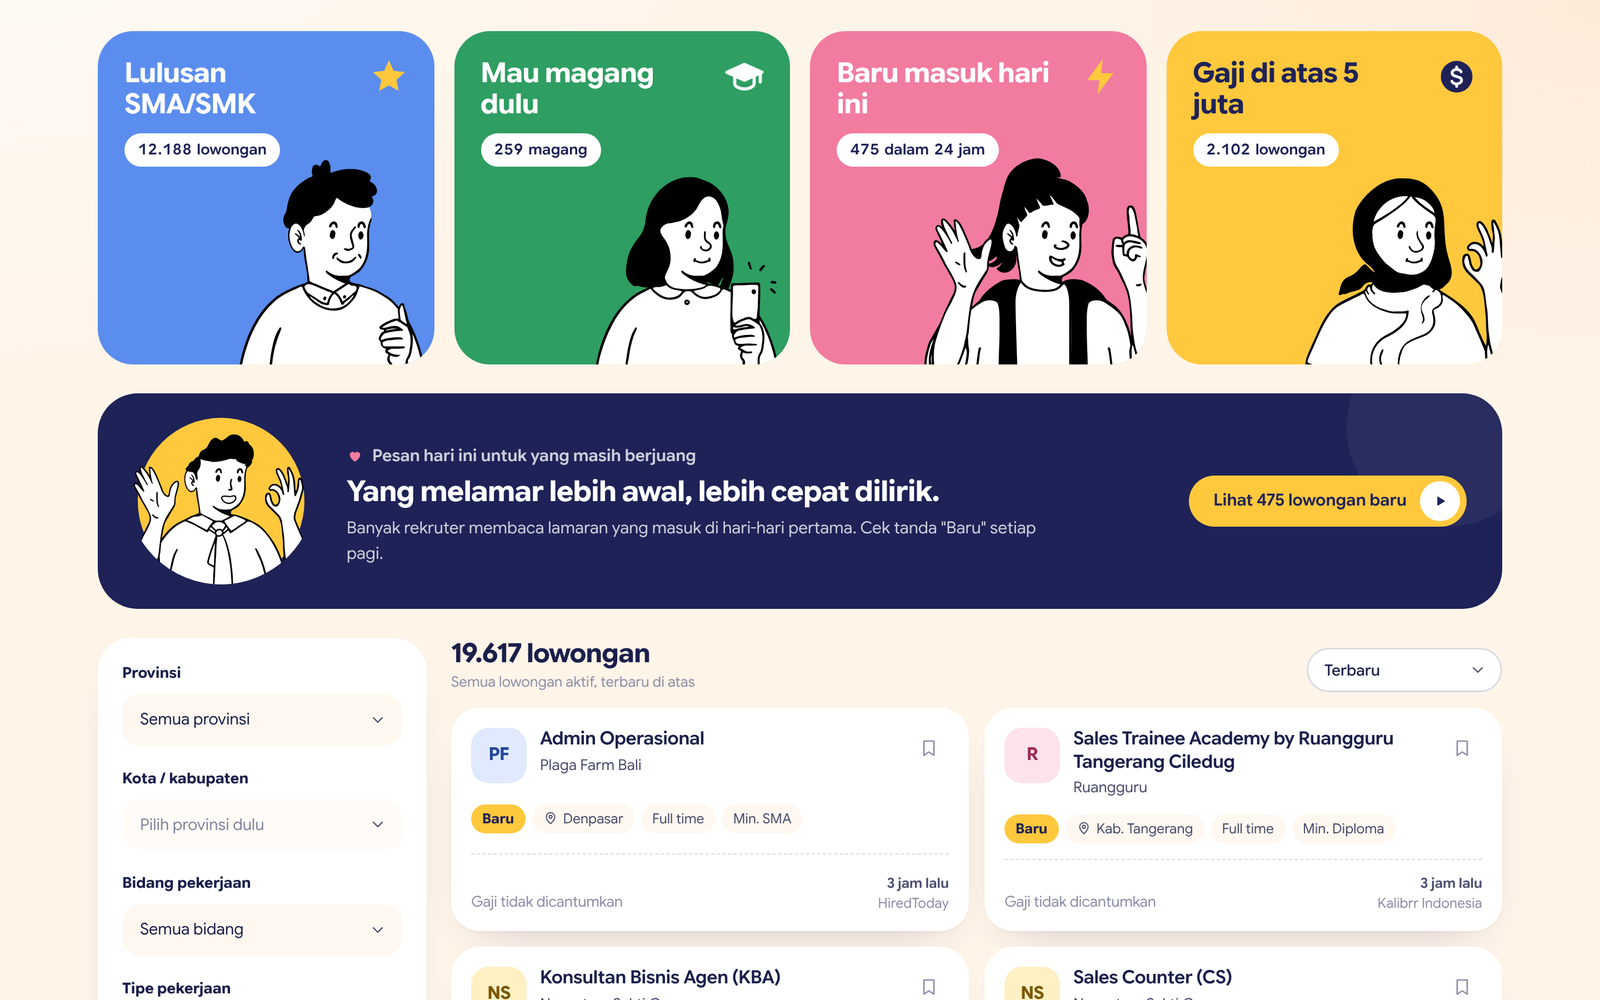
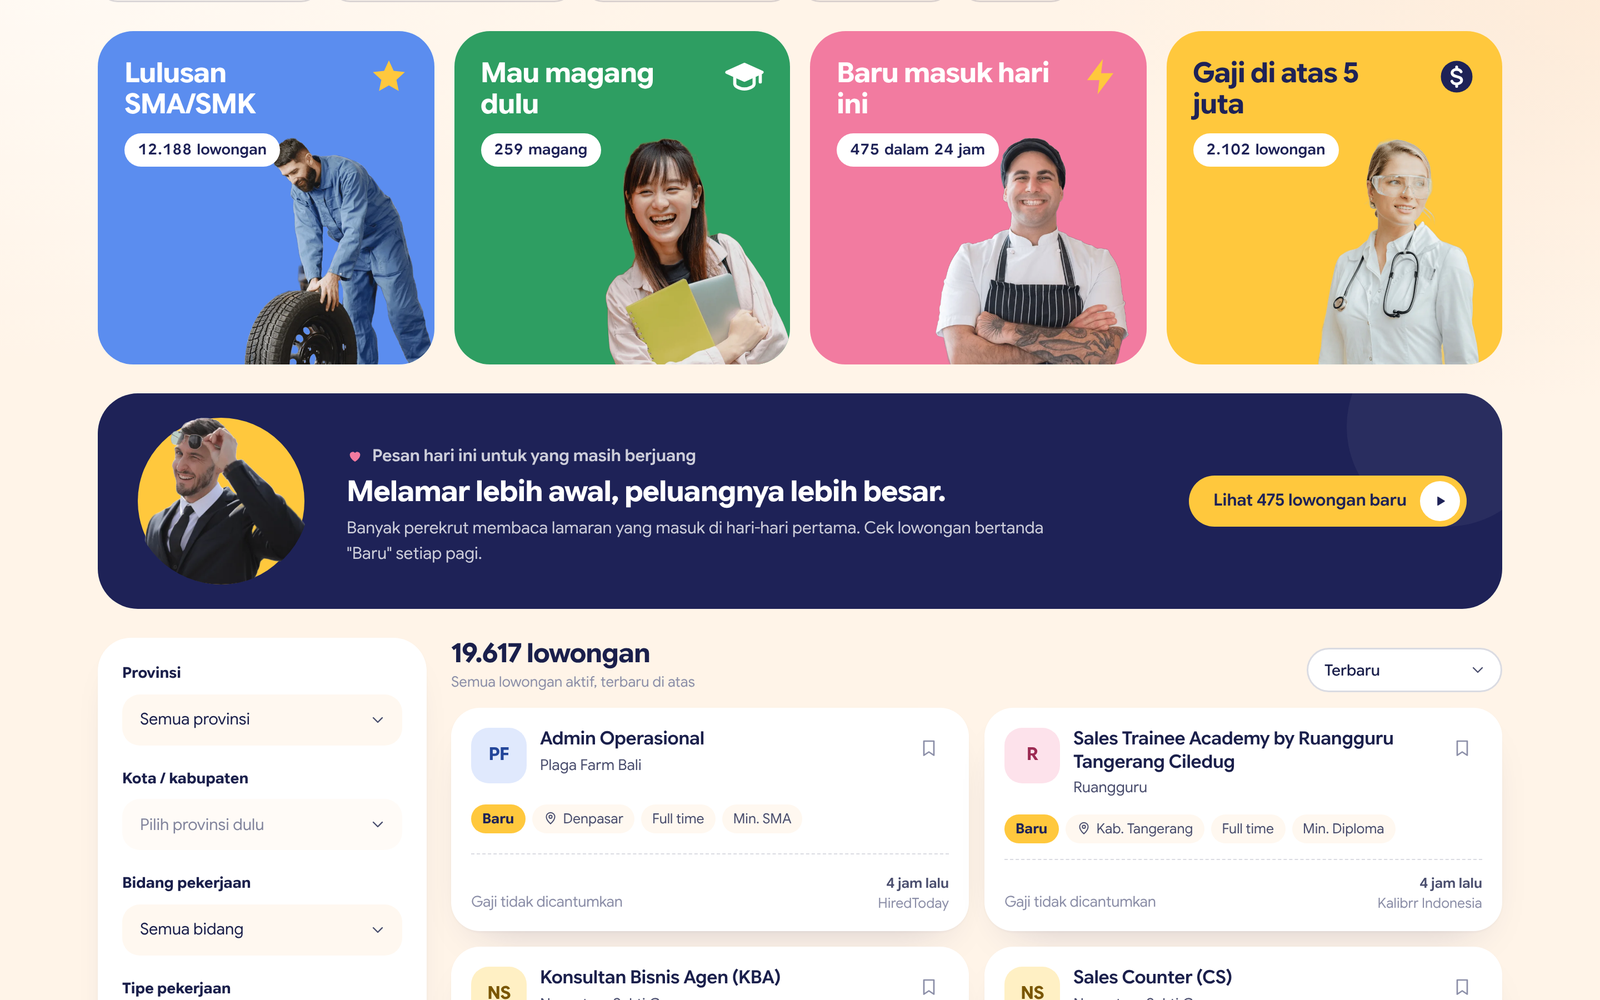
Add files via upload

diff --git a/app.js b/app.js
@@ -23,10 +23,10 @@ const POPULAR_MAJORS = ['Akuntansi', 'Manajemen', 'Teknik Informatika', 'Adminis
   'Teknik Mesin', 'Teknik Sipil & Arsitektur', 'Keperawatan & Kebidanan', 'Tata Boga & Kuliner', 'Pendidikan', 'Hukum'];
 
 const MOODS = [
-  { tone: 'blue', title: 'Lulusan SMA/SMK', unit: 'lowongan', icon: 'star', img: 'orang-raka.svg', patch: { edu: 'sma' } },
-  { tone: 'green', title: 'Mau magang dulu', unit: 'magang', icon: 'cap', img: 'orang-nadia.svg', patch: { types: ['Magang'] } },
-  { tone: 'pink', title: 'Baru masuk hari ini', unit: 'dalam 24 jam', icon: 'bolt', img: 'orang-ayu.svg', patch: { waktu: '1' } },
-  { tone: 'yellow', title: 'Gaji di atas 5 juta', unit: 'lowongan', icon: 'coin', img: 'orang-laila.svg', patch: { gaji: '5' } }
+  { tone: 'blue', title: 'Lulusan SMA/SMK', unit: 'lowongan', icon: 'star', img: 'foto-mekanik.webp', fit: 'right:0', patch: { edu: 'sma' } },
+  { tone: 'green', title: 'Mau magang dulu', unit: 'magang', icon: 'cap', img: 'foto-magang.webp', fit: 'right:0', patch: { types: ['Magang'] } },
+  { tone: 'pink', title: 'Baru masuk hari ini', unit: 'dalam 24 jam', icon: 'bolt', img: 'foto-chef.webp', fit: 'right:5%', patch: { waktu: '1' } },
+  { tone: 'yellow', title: 'Gaji di atas 5 juta', unit: 'lowongan', icon: 'coin', img: 'foto-perawat.webp', fit: 'right:7%', patch: { gaji: '5' } }
 ];
 
 function todayMessage() {
@@ -248,7 +248,7 @@ function renderMoods() {
       <span class="mood-title">${m.title}</span>
       <span class="mood-chip">${ribu(n)} ${m.unit}</span>
       <svg class="mood-icon"><use href="#i-${m.icon}"/></svg>
-      <img src="${m.img}" alt="" loading="lazy">
+      <img src="${m.img}" alt="" loading="lazy" style="${m.fit}">
     </button>`;
   }).join('');
 }
@@ -262,7 +262,7 @@ function renderCheer() {
   }
   const fresh = summarize(state.all, state.ref).fresh;
   $('#cheer').innerHTML = `
-    <div class="cheer-art"><img src="orang-bima.svg" alt=""></div>
+    <div class="cheer-art"><img src="foto-eksekutif.webp" alt=""></div>
     <div>
       <p class="cheer-eyebrow"><svg><use href="#i-heart"/></svg>Pesan hari ini untuk yang masih berjuang</p>
       <h2>${esc(m.title)}</h2>
@@ -321,12 +321,12 @@ function renderResults() {
     ? `dari ${ribu(state.all.length)} lowongan aktif · ${major ? `cocok untuk jurusan ${major.label}, dilihat dari bidang dan judul lowongan` : `bidang atau judulnya memuat "${state.f.jur}"`}`
     : n ? `dari ${ribu(state.all.length)} lowongan aktif` : 'Semua lowongan aktif, terbaru di atas';
   if (!state.all.length) {
-    listEl.innerHTML = `<div class="empty">${emptyArt('orang-sari.svg', 'yellow')}<b>Data pertama sedang disiapkan</b><p>Lowongan dari Karirhub Kemnaker dan situs karier perusahaan ditarik otomatis setiap pagi pukul 06.00 WIB.</p></div>`;
+    listEl.innerHTML = `<div class="empty">${emptyArt('foto-kantor.webp', 'yellow')}<b>Data pertama sedang disiapkan</b><p>Lowongan dari Karirhub Kemnaker dan situs karier perusahaan ditarik otomatis setiap pagi pukul 06.00 WIB.</p></div>`;
     $('#more').hidden = true;
     return;
   }
   if (!list.length) {
-    listEl.innerHTML = `<div class="empty">${emptyArt('orang-nadia.svg')}<b>Belum ketemu yang cocok</b><p>Coba kata kunci lain atau longgarkan filternya. Lowongan baru masuk setiap pagi, jadi besok bisa saja muncul.</p><button class="btn cta" type="button" data-reset>Hapus semua filter <span class="cta-dot"><svg><use href="#i-play"/></svg></span></button></div>`;
+    listEl.innerHTML = `<div class="empty">${emptyArt('foto-magang.webp', 'green')}<b>Belum ketemu yang cocok</b><p>Coba kata kunci lain atau longgarkan filternya. Lowongan baru masuk setiap pagi, jadi besok bisa saja muncul.</p><button class="btn cta" type="button" data-reset>Hapus semua filter <span class="cta-dot"><svg><use href="#i-play"/></svg></span></button></div>`;
     $('#more').hidden = true;
     return;
   }
@@ -371,7 +371,7 @@ function renderPasar() {
   const bento = $('#bento');
   if (!state.all.length) {
     $('#pasar-scope').textContent = '';
-    bento.innerHTML = `<div class="tile wide"><div class="empty" style="box-shadow:none;padding:24px">${emptyArt('orang-sari.svg', 'yellow')}<b>Analisis muncul setelah data pertama masuk</b></div></div>`;
+    bento.innerHTML = `<div class="tile wide"><div class="empty" style="box-shadow:none;padding:24px">${emptyArt('foto-kantor.webp', 'yellow')}<b>Analisis muncul setelah data pertama masuk</b></div></div>`;
     return;
   }
   const s = summarize(list, state.ref);
@@ -458,7 +458,7 @@ function renderTrend() {
   if (!box) return;
   const days = state.days.filter((d) => d.active);
   if (days.length < 2) {
-    box.innerHTML = `<div class="trend-empty">${emptyArt('orang-dimas.svg', 'blue')}<div><b>Grafik tren sedang tumbuh</b>Garisnya muncul setelah data terkumpul minimal 2 hari. Hari ini tercatat ${ribu(days[0]?.active || state.all.length)} lowongan aktif.</div></div>`;
+    box.innerHTML = `<div class="trend-empty">${emptyArt('foto-tambang.webp', 'blue')}<div><b>Grafik tren sedang tumbuh</b>Garisnya muncul setelah data terkumpul minimal 2 hari. Hari ini tercatat ${ribu(days[0]?.active || state.all.length)} lowongan aktif.</div></div>`;
     return;
   }
   const W = Math.max(280, box.clientWidth);
@@ -536,7 +536,7 @@ function updateSavedBadge() {
 function renderSaved() {
   const box = $('#saved-list');
   if (!state.saved.length) {
-    box.innerHTML = `<div class="empty">${emptyArt('orang-putri.svg', 'blue')}<b>Belum ada lowongan incaran</b><p>Ketuk ikon penanda di kartu lowongan untuk menyimpannya di sini, supaya tidak lupa dilamar. Simpanan hanya ada di perangkat ini.</p><a class="btn cta" href="#cari">Cari lowongan <span class="cta-dot"><svg><use href="#i-play"/></svg></span></a></div>`;
+    box.innerHTML = `<div class="empty">${emptyArt('foto-perawat.webp', 'yellow')}<b>Belum ada lowongan incaran</b><p>Ketuk ikon penanda di kartu lowongan untuk menyimpannya di sini, supaya tidak lupa dilamar. Simpanan hanya ada di perangkat ini.</p><a class="btn cta" href="#cari">Cari lowongan <span class="cta-dot"><svg><use href="#i-play"/></svg></span></a></div>`;
     return;
   }
   box.innerHTML = state.saved.map((s) => {

diff --git a/style.css b/style.css
@@ -1,6 +1,6 @@
 /* Tracking Loker
    Ceria dan hangat: latar krem, bentuk geometris berwarna (pil, lingkaran, bintang, bunga),
-   ilustrasi orang bergaris Notionists, kartu kategori berwarna, tombol pil kuning.
+   foto orang berseragam kerja yang dipotong rapi, kartu kategori berwarna, tombol pil kuning.
    Huruf: Google Sans Flex tebal untuk judul. */
 
 @font-face {
@@ -208,7 +208,7 @@ svg { width: 20px; height: 20px; flex-shrink: 0; fill: none; stroke: currentColo
 .sh-heart { right: 1%; top: 37%; width: calc(var(--u) * 116); height: calc(var(--u) * 116); border-radius: 50%; background: var(--blue); color: #fff; }
 .sh-heart svg { width: calc(var(--u) * 46); height: calc(var(--u) * 46); }
 .arch { left: 34%; top: 0; width: calc(var(--u) * 196); height: calc(var(--u) * 296); border-radius: 999px; background: var(--yellow); overflow: hidden; }
-.arch img { position: absolute; left: 0; bottom: 0; width: 100%; }
+.arch img { position: absolute; left: -4%; bottom: 0; width: 108%; }
 .bubble {
   left: 52%; top: 4%; padding: calc(var(--u) * 10) calc(var(--u) * 18); border-radius: 999px; background: #fff; color: var(--ink);
   font-size: calc(var(--u) * 17); font-weight: 700; letter-spacing: -.01em; white-space: nowrap; box-shadow: var(--shadow); transform: rotate(-7deg);
@@ -220,7 +220,7 @@ svg { width: 20px; height: 20px; flex-shrink: 0; fill: none; stroke: currentColo
 }
 .stage { left: 25%; bottom: 0; width: calc(var(--u) * 330); height: calc(var(--u) * 270); }
 .stage-pill { position: absolute; left: 0; right: 0; bottom: 0; height: 44%; border-radius: 999px; background: var(--navy); }
-.stage img { position: absolute; left: 20%; bottom: 0; width: 60%; }
+.stage img { position: absolute; left: 26%; bottom: 0; width: 48%; }
 
 /* Kartu kategori berwarna */
 .moods { display: grid; grid-template-columns: repeat(4, minmax(0, 1fr)); gap: 18px; }
@@ -241,8 +241,9 @@ svg { width: 20px; height: 20px; flex-shrink: 0; fill: none; stroke: currentColo
 .mood.green .mood-icon { color: #fff; }
 .mood.pink .mood-icon { color: var(--yellow); }
 .mood.yellow .mood-icon { color: var(--navy); }
-.mood img { position: absolute; right: -8%; bottom: -3%; width: 74%; pointer-events: none; transition: transform .25s; }
-.mood:hover img { transform: translateY(-4px); }
+.mood img { position: absolute; right: 0; bottom: 0; height: 68%; width: auto; max-width: 70%; object-fit: contain; object-position: bottom; pointer-events: none; transition: transform .25s; transform-origin: bottom center; }
+.mood:hover img { transform: scale(1.03); }
+.mood-title, .mood-chip { position: relative; z-index: 1; }
 
 /* Pesan semangat */
 .cheer {
@@ -253,7 +254,7 @@ svg { width: 20px; height: 20px; flex-shrink: 0; fill: none; stroke: currentColo
 .cheer::after { content: ""; position: absolute; right: -40px; top: -60px; width: 180px; height: 180px; border-radius: 50%; background: rgba(255, 255, 255, .05); }
 .cheer-art { position: relative; width: 170px; height: 150px; }
 .cheer-art::before { content: ""; position: absolute; left: 10px; top: 0; width: 150px; height: 150px; border-radius: 50%; background: var(--yellow); }
-.cheer-art img { position: absolute; left: 0; bottom: 0; width: 170px; clip-path: inset(-100% 0 0 0 round 0 0 85px 85px); }
+.cheer-art img { position: absolute; left: 5px; bottom: 0; width: 160px; clip-path: inset(-100% 0 0 0 round 0 0 80px 80px); }
 .cheer-eyebrow { display: inline-flex; align-items: center; gap: 8px; font-size: 13px; font-weight: 600; color: var(--yellow); margin-bottom: 6px; }
 .cheer-eyebrow svg { width: 15px; height: 15px; color: var(--pink); }
 .cheer h2 { font-size: 26px; line-height: 1.18; font-weight: 700; letter-spacing: -.02em; }
@@ -341,7 +342,8 @@ svg { width: 20px; height: 20px; flex-shrink: 0; fill: none; stroke: currentColo
 .empty-art { position: relative; width: 150px; height: 150px; margin-bottom: 4px; border-radius: 50%; background: var(--pink-soft); overflow: hidden; }
 .empty-art.yellow { background: var(--yellow); }
 .empty-art.blue { background: var(--blue-soft); }
-.empty-art img { position: absolute; left: 4%; bottom: -4%; width: 92%; }
+.empty-art.green { background: var(--green-soft); }
+.empty-art img { position: absolute; left: 50%; bottom: 0; height: 94%; width: auto; transform: translateX(-50%); }
 .skeleton { height: 168px; border-radius: 26px; background: linear-gradient(90deg, #fff 0%, #FFF9F2 50%, #fff 100%); background-size: 200% 100%; animation: shimmer 1.4s infinite; box-shadow: var(--shadow); }
 @keyframes shimmer { to { background-position: -200% 0; } }
 
@@ -504,11 +506,12 @@ svg { width: 20px; height: 20px; flex-shrink: 0; fill: none; stroke: currentColo
   .mood { flex: 0 0 214px; height: 252px; padding: 20px 20px 0; border-radius: 28px; scroll-snap-align: start; }
   .mood-title { font-size: 21px; }
   .mood-icon { width: 30px; height: 30px; top: 18px; right: 18px; }
+  .mood img { height: 56%; }
 
   .cheer { grid-template-columns: 96px minmax(0, 1fr); gap: 14px 16px; padding: 18px; border-radius: 28px; }
   .cheer-art { width: 96px; height: 96px; }
   .cheer-art::before { left: 6px; width: 86px; height: 86px; top: 4px; }
-  .cheer-art img { width: 98px; clip-path: inset(-100% 0 0 0 round 0 0 49px 49px); }
+  .cheer-art img { left: 4px; width: 90px; clip-path: inset(-100% 0 0 0 round 0 0 45px 45px); }
   .cheer h2 { font-size: 19px; }
   .cheer p { font-size: 14px; }
   .cheer .btn.cta { grid-column: 1 / -1; justify-content: space-between; }

diff --git a/index.html b/index.html
@@ -67,10 +67,10 @@
           <span class="sh sh-ring"></span>
           <span class="sh sh-spark"><svg><use href="#i-spark"/></svg></span>
           <span class="sh sh-heart"><svg><use href="#i-heart"/></svg></span>
-          <div class="arch"><img src="orang-sari.svg" alt=""></div>
+          <div class="arch"><img src="foto-kantor.webp" alt=""></div>
           <div class="bubble" id="hero-bubble">Semangat!</div>
           <div class="tag-pill">Tracking Loker</div>
-          <div class="stage"><span class="stage-pill"></span><img src="orang-dimas.svg" alt=""></div>
+          <div class="stage"><span class="stage-pill"></span><img src="foto-tambang.webp" alt=""></div>
         </div>
       </div>
 

diff --git a/README.md b/README.md
@@ -75,7 +75,7 @@ Lowongan resmi tidak pernah memungut biaya. Tracking Loker mengingatkan hal ini 
 
 ## Dibangun dengan
 
-Python (pustaka standar) · GitHub Actions · JavaScript · GitHub Pages · Google Sans Flex · Ilustrasi Notionists
+Python (pustaka standar) · GitHub Actions · JavaScript · GitHub Pages · Google Sans Flex
 
 ---
 
@@ -83,6 +83,6 @@ Python (pustaka standar) · GitHub Actions · JavaScript · GitHub Pages · Goog
 
 Dibuat oleh [Ghozi Abdullah](https://github.com/Ghozi-Abdullah) · Proyek Hari 2 dari **#30Hari30Website**
 
-Lisensi MIT · Data lowongan milik [Karirhub Kemnaker](https://karirhub.kemnaker.go.id) dan masing-masing perusahaan · Tracking Loker tidak berafiliasi dengan Kementerian Ketenagakerjaan · Huruf Google Sans Flex (SIL Open Font License) · Ilustrasi [Notionists](https://www.dicebear.com/styles/notionists/) oleh Zoish (CC0) lewat DiceBear
+Lisensi MIT · Data lowongan milik [Karirhub Kemnaker](https://karirhub.kemnaker.go.id) dan masing-masing perusahaan · Tracking Loker tidak berafiliasi dengan Kementerian Ketenagakerjaan · Huruf Google Sans Flex (SIL Open Font License) · Foto orang dari [Pexels](https://www.pexels.com) (Pexels License)
 
 </div>
